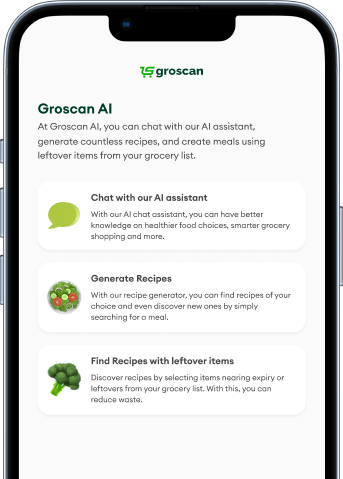
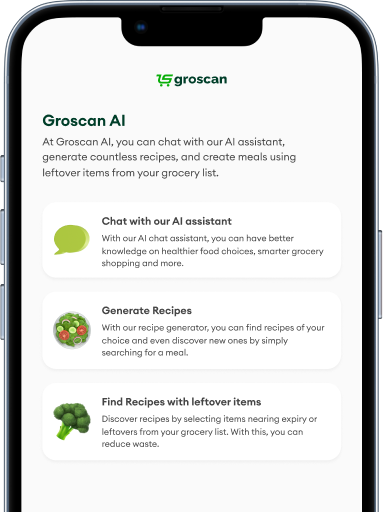
done

diff --git a/src/components/HomeLayout/Footer.js b/src/components/HomeLayout/Footer.js
@@ -1,11 +1,10 @@
 import React from 'react'
 import Image from 'next/image';
-import logo from '../HomeLayout/Assets/Images/Group.png'
-import { FaApple, FaPlay } from "react-icons/fa";
+import logo from '../HomeLayout/Assets/Images/logo.png'
 import { FaInstagram, FaFacebook, FaLinkedin, FaTwitter } from "react-icons/fa";
 import Link from 'next/link';
 import apple from "./Assets/Images/apple.png";
-import andriod from "./Assets/Images/andriod.png";
+import andriod from "./Assets/Images/android.png";
 
 export default function Footer() {
   return (
@@ -14,13 +13,12 @@ export default function Footer() {
         <div className="md:w-[70%] w-full">
           <Link
             href="./"
-            className="uppercase font-semibold text-[15px] flex items-center justify-start gap-2 text-black font-circular"
+            className="flex items-center justify-start gap-2"
           >
-            <Image src={logo} alt="cartImage" />
-            groscan
+            <Image src={logo} alt="cartImage" className="w-[148px]" />
           </Link>
           <p className="text-black mt-6 text-[16px] w-full lg:w-[40%] md:w-[70%] font-normal font-circular text-light-green">
-            Your Ai Assistant for simplifying grocery management and shopping
+            Your AI Assistant for simplifying grocery management and shopping
           </p>
           <div className="mt-8">
             <ul className="flex flex-row md:gap-6 gap-32 font-medium text-dark-color md:text-[10px] lg:text-[16px] text-[15px]">
@@ -82,8 +80,7 @@ export default function Footer() {
       </section>
       <section className="text-black mt-16">
         <div className="flex md:flex-row flex-col gap-4 justify-between">
-          <div
-            className="flex flex-row text-end gap-4 sm:text-[15px] text-[12px] md:order-2 order-1 font-circular text-light-gray">
+          <div className="flex flex-row text-end gap-4 sm:text-[24px] md:order-2 order-1 font-circular text-light-gray">
             <Link href="./">
               <FaInstagram />
             </Link>
@@ -97,8 +94,7 @@ export default function Footer() {
               <FaTwitter />
             </Link>
           </div>
-          <p
-            className="font-normal text-[16px] md:order-1 order-2 font-circular text-light-gray">
+          <p className="font-normal text-[16px] md:order-1 order-2 font-circular text-light-gray">
             @2024 Groscan. All rights reserved.
           </p>
         </div>

diff --git a/src/components/Section/Grocery/Grocery.js b/src/components/Section/Grocery/Grocery.js
@@ -1,8 +1,8 @@
 'use client'
 import React from "react";
-import Frame from '../Assets/images/Frame.png'
+import Frame from '../Assets/images/hero.png'
 import apple from '../Assets/images/apple.png'
-import andriod from '../Assets/images/andriod.png'
+import andriod from '../Assets/images/android.png'
 import Link from "next/link";
 import Image from "next/image";
 import {motion} from 'framer-motion'
@@ -64,7 +64,11 @@ export default function Grocery() {
             className="p-4 font-circular lg:w-[30%] w-full rounded-[16px] text-white flex gap-2 items-center justify-center font-bold text-[14px]"
             style={{ background: "rgba(51, 101, 84, 1)" }}
           >
-            <Image src={apple} alt="apple_image" />
+            <Image
+              src={apple}
+              alt="apple_image"
+              className="w-[18px] md:w-[21px]"
+            />
             Get on iPhone
           </Link>
           <Link
@@ -72,7 +76,11 @@ export default function Grocery() {
             className="p-4 font-circular lg:w-[30%] w-full rounded-[16px] text-white flex gap-2 items-center justify-center font-bold text-[14px]"
             style={{ background: "rgba(51, 101, 84, 1)" }}
           >
-            <Image src={andriod} alt="andriod_image" />
+            <Image
+              src={andriod}
+              alt="andriod_image"
+              className="w-[18px] md:w-[21px]"
+            />
             Get on Android
           </Link>
         </motion.div>

diff --git a/src/components/Section/Service/Service.js b/src/components/Section/Service/Service.js
@@ -1,8 +1,8 @@
 'use client'
 import React from "react";
-import icon from "../Assets/images/Icon.png";
-import icon2 from "../Assets/images/Icon (1).png";
-import icon3 from "../Assets/images/Icon (2).png";
+import icon from "../Assets/images/service1.png";
+import icon2 from "../Assets/images/servicee2.png";
+import icon3 from "../Assets/images/service3.png";
 import Subtitle from "@/components/Reuse/Subtitle";
 import Image from "next/image";
 import {motion} from 'framer-motion'
@@ -26,12 +26,19 @@ export default function Service() {
     },
   ];
   return (
-    <div className="w-full py-[96px] bg-custom-gray" id="benefits">
-        <Subtitle
-          title="We are Your Grocery Companion"
-          desc="We simplify the process of managing groceries and help you make informed nutritional choices."
-        />
-      <div className="w-full flex flex-col md:flex-row justify-center items-center gap-6 md:px-0 px-5 mt-14">
+    <div
+      className="w-full py-[96px] bg-custom-gray"
+      id="benefits"
+     
+    >
+      <Subtitle
+        title="We are Your Grocery Companion"
+        desc="We simplify the process of managing groceries and help you make informed nutritional choices."
+      />
+      <div
+        className="w-full flex flex-col md:flex-row justify-center items-center gap-6 md:px-0 px-5 mt-14"
+        
+      >
         {items.map((item, i) => (
           <div
             key={i}

diff --git a/src/components/HomeLayout/Header.js b/src/components/HomeLayout/Header.js
@@ -5,7 +5,7 @@ import React, { useState, useEffect } from "react";
 // import { motion } from "framer-motion";
 import Image from "next/image";
 import { MdMenu, MdClose } from "react-icons/md";
-import logo from "../HomeLayout/Assets/Images/Group.png";
+import logo from "../HomeLayout/Assets/Images/logo.png";
 
 const menus = [
   { id: "#benefits", label: "BENEFITS" },
@@ -44,10 +44,9 @@ export default function Header() {
       <div className="flex justify-between md:py-7 py-4 md:px-20 px-7">
         <a
           href="./"
-          className="uppercase font-medium md:text-[18px] text-[14px] flex items-center justify-start gap-2 text-black font-circular"
+          className="flex items-center justify-start gap-2 "
         >
-          <Image src={logo} alt="cartImage" />
-          groscan
+          <Image src={logo} alt="cartImage" className="w-[148px]" />
         </a>
         <ul className="justify-around gap-6 items-center md:flex flex-row hidden font-medium text-[16px] text-dark-color font-circular">
           {menus.map((menu, i) => (

diff --git a/src/app/page.js b/src/app/page.js
@@ -10,19 +10,18 @@ import Service from '@/components/Section/Service/Service';
 export default function Home() {
   return (
     <div>
-    <div className='w-full'>
-      <Header />
-      <div>
-        <Grocery />
-        <Service />
-        <Features />
-        <Ai />
-        <Faq />
-        <Join />
+      <div className="w-full  overflow-x-hidden">
+        <Header />
+        <div>
+          <Grocery />
+          <Service />
+          <Features />
+          <Ai />
+          <Faq />
+          <Join />
+        </div>
+        <Footer />
       </div>
-      <Footer />
     </div>
-      
-    </div>
-  )
+  );
 }

diff --git a/src/components/Section/Features/Features.js b/src/components/Section/Features/Features.js
@@ -1,9 +1,9 @@
 import Subtitle from "@/components/Reuse/Subtitle";
 import React from "react";
-import Feature from "../Assets/images/Features.png";
-import Feature1 from "../Assets/images/Features2.png";
-import Feature2 from "../Assets/images/Features3.png";
-import Feature3 from "../Assets/images/Features4.png";
+import Feature from "../Assets/images/feature1.png";
+import Feature1 from "../Assets/images/feature2.png";
+import Feature2 from "../Assets/images/feature3.png";
+import Feature3 from "../Assets/images/feature4.png";
 import Image from "next/image";
 
 export default function Features() {

diff --git a/src/components/Section/JoinGroscon/Join.js b/src/components/Section/JoinGroscon/Join.js
@@ -5,7 +5,7 @@ import Link from "next/link";
 import Gross from "../Assets/images/grossy.JPG";
 import Gross1 from "../Assets/images/Grossymobile.JPG";
 import apple from "../Assets/images/apple.png";
-import andriod from "../Assets/images/andriod.png";
+import andriod from "../Assets/images/android.png";
 
 export default function Join() {
   return (
